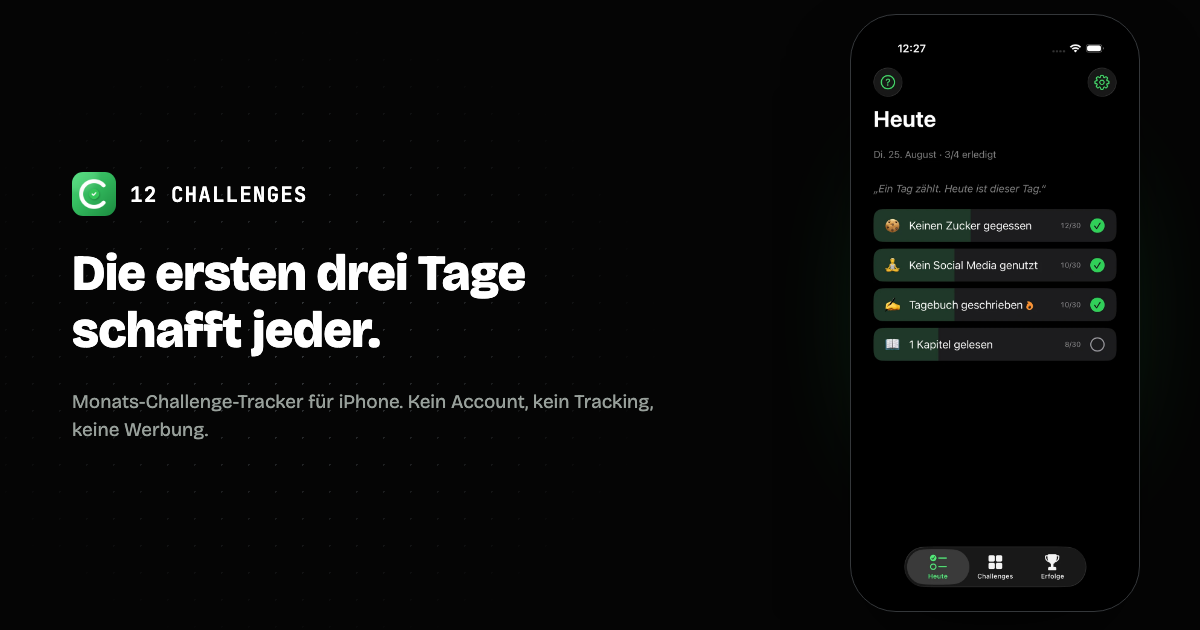
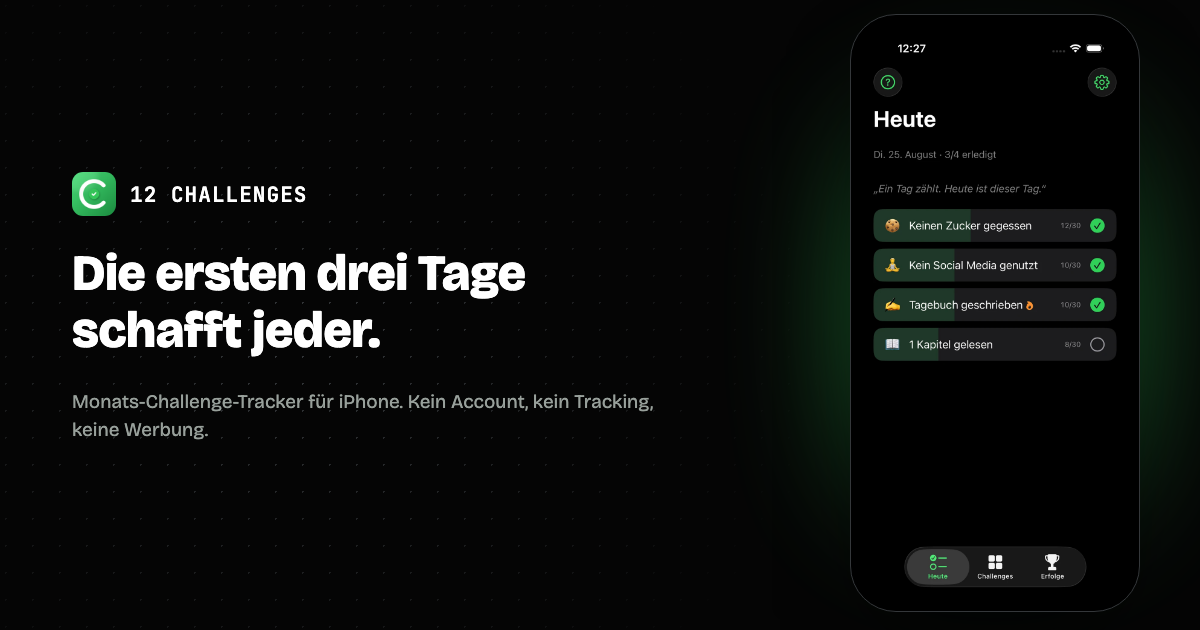
style: OG-Bilder mit deutlich staerkerem Glow
Gruener Phone-Glow von opacity 0.45 auf 0.75 und weiter ausgedehnt
(inset -6% statt 8%), Text-Glow-Ellipse vergroessert (620x540 statt
480x420). Bei allen vier Sprachen neu gerendert.

Changed region(s): [[0.925, 0.3619, 0.9867, 0.6333], [0.6783, 0.3619, 0.7092, 0.6333]]

diff --git a/scripts/og-image/template.html b/scripts/og-image/template.html
@@ -51,8 +51,8 @@
     background-image: radial-gradient(circle, var(--border-visible) 1px, transparent 1px);
     background-size: 27px 27px;
     background-position: -8px -8px;
-    -webkit-mask-image: radial-gradient(ellipse 480px 420px at 300px 340px, #000 0%, transparent 75%);
-    mask-image: radial-gradient(ellipse 480px 420px at 300px 340px, #000 0%, transparent 75%);
+    -webkit-mask-image: radial-gradient(ellipse 620px 540px at 300px 340px, #000 0%, transparent 85%);
+    mask-image: radial-gradient(ellipse 620px 540px at 300px 340px, #000 0%, transparent 85%);
   }
 
   .wordmark {
@@ -106,10 +106,10 @@
   .phone-wrap::before {
     content: "";
     position: absolute;
-    inset: 8% 8%;
-    background: radial-gradient(circle, var(--accent) 0%, transparent 70%);
-    opacity: 0.45;
-    filter: blur(50px);
+    inset: -6% -6%;
+    background: radial-gradient(circle, var(--accent) 0%, transparent 72%);
+    opacity: 0.75;
+    filter: blur(55px);
     z-index: 0;
   }
   .phone-frame {
